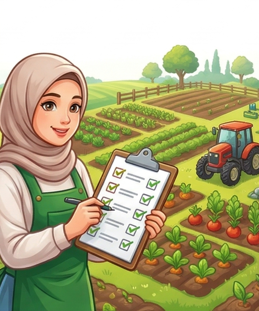
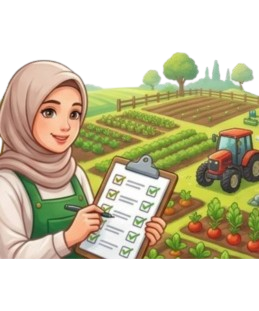
Refactor code structure for improved readability and maintainability

diff --git a/styles.css b/styles.css
@@ -42,15 +42,7 @@ html, body {
   z-index: 0;
 }
 
-/* Gradient fallback */
-.bg-fallback {
-  position: absolute; inset: 0;
-  background: linear-gradient(150deg,
-    #b8e0a0 0%, #78c878 18%,
-    #3daa50 42%, #2a7a3a 68%,
-    #1b5e2f 100%);
-  z-index: 0;
-}
+
 
 /* Readability overlay */
 .bg-overlay {
@@ -222,22 +214,8 @@ nav {
 .hero-subtitle {
   font-size: 0.86rem; font-weight: 500;
   color: var(--green-mid);
-  text-shadow: 0 1px 6px rgba(0,0,0,0.6);  margin-bottom: 18px;
+  text-shadow: 0 1px 6px rgba(0,0,0,0.6);  margin-bottom: 0;
 }
-
-.hero-btn {
-  display: inline-block;
-  background: var(--green-btn);
-  color: var(--white);
-  font-family: 'Nunito', sans-serif;
-  font-weight: 800; font-size: 0.95rem;
-  padding: 10px 28px; border-radius: 50px;
-  text-decoration: none;
-  border: 2px solid rgba(255,255,255,0.28);
-  box-shadow: 0 4px 18px rgba(30,100,40,0.45);
-  transition: background 0.2s, transform 0.15s;
-}
-.hero-btn:hover { background: #1b5e2f; transform: translateY(-2px); }
 
 /* ══════════════════════════
    BOTTOM CARDS
@@ -259,46 +237,6 @@ nav {
   gap: 40px;
   flex-wrap: wrap;
   justify-content: center;
-}
-
-.feat-card {
-  background: var(--card-bg);
-  border-radius: 20px;
-  padding: 10px 12px 6px;
-  text-align: center;
-  box-shadow: var(--shadow);
-  border: 1.5px solid rgba(255,255,255,0.85);
-  backdrop-filter: blur(10px);
-  display: flex; flex-direction: column;
-  align-items: center; gap: 10px;
-  height: 170px;
-  width: 170px;
-  transition: transform 0.25s, box-shadow 0.25s;
-}
-.feat-card:hover {
-  transform: translateY(-1px);
-  box-shadow: 0 0 12px rgba(46, 125, 50, 0.3);
-  cursor: pointer;
-}
-
-.feat-card-icon {
-  width: 120px; height: 120px;
-  background: linear-gradient(135deg, #e8f5e9 0%, #c8e6c9 100%);
-  border-radius: 14px;
-  border: none;
-  display: flex; flex-direction: column;
-  align-items: center; justify-content: center;
-  font-size: 0.56rem; font-weight: 800;
-  color: var(--green-mid); text-align: center; line-height: 1.3;
-  overflow: hidden;
-}
-.feat-card-icon img { width: 100%; height: 100%; object-fit: cover; border-radius: 12px; }
-.feat-card-icon .icon-ph { font-size: 1.5rem; margin-bottom: 2px; }
-
-.feat-card-label {
-  font-family: 'Fredoka One', cursive;
-  font-size: 0.98rem; font-weight: 800;
-  color: var(--text-dark);
 }
 
 /* ══════════════════════════════════════════════
@@ -386,11 +324,6 @@ nav {
   0 0 15px rgba(255, 255, 255, 0.8); /* Inner white glow */
 }
 
-.lp-card-label:hover  {
-  transform: translateY(-5px) scale(1.02);
-  box-shadow: 0 20px 50px rgba(0, 0, 0, 0.6);
-}
-
 /* Card image / illustration placeholder */
 .lp-card-img, .lp-card-img-3 {
   position: relative;
@@ -413,7 +346,7 @@ nav {
 .lp-card-img img {
   position: relative;
   top: -15px;
-  width: 100%;
+  width: 90%;
   height: 100%;
   object-fit: contain;
   filter: drop-shadow(0 0 6px rgba(0, 0, 0, 0.65));
@@ -421,15 +354,13 @@ nav {
 
 .lp-card-img-3 img {
   position: relative;
-  top: 0;
-  width: 100%;
+  top: -5px;
+  width: 90%;
   height: 100%;
   object-fit: contain;
   filter: drop-shadow(0 0 6px rgba(0, 0, 0, 0.65));
 }
 
-.lp-card-img .lp-ph-icon { font-size: 3rem; }
-.lp-card-img .lp-ph-text { font-size: 0.62rem; opacity: 0.8; }
 
 /* Green label bar at bottom */
 .lp-card-label {
@@ -446,6 +377,11 @@ nav {
   line-height: 1.2;
   position: relative;
   bottom: 10px;
+  transition: transform 0.25s, box-shadow 0.25s;
+}
+.lp-card-label:hover  {
+  transform: translateY(-5px) scale(1.02);
+  box-shadow: 0 20px 50px rgba(0, 0, 0, 0.6);
 }
 
 /* ══════════════════════════
@@ -462,9 +398,6 @@ nav {
   
   .cards-bar { padding: 0 14px 45px; }
   .cards-row { gap: 18px; }
-  .feat-card { width: 110px; height: 130px; padding: 9px 8px; }
-  .feat-card-icon { width: 75px; height: 75px; }
-  .feat-card-label { font-size: 0.7rem; }
   
   .lp-title-pill { font-size: 1.2rem; padding: 11px 36px; }
   .lp-cards-area { padding: 28px 22px 75px; gap: 20px; }
@@ -484,14 +417,10 @@ nav {
   
   .hero-text { max-width: 100%; width: min(92%, 600px); top: 80px; }
   .hero-title { font-size: 2.8rem; }
-  .hero-subtitle { font-size: 0.95rem; margin-bottom: 14px; }
-  .hero-btn { padding: 9px 24px; }
+  .hero-subtitle { font-size: 0.95rem; margin-bottom: 0; }
   
   .cards-bar { padding: 0 16px 50px; position: fixed; width: 100%; bottom: 0; }
   .cards-row { gap: 20px; flex-wrap: wrap; }
-  .feat-card { width: 28vw; min-width: 100px; height: 120px; padding: 10px 8px; }
-  .feat-card-icon { width: 80px; height: 80px; }
-  .feat-card-label { font-size: 0.75rem; font-weight: 700; }
   
   /* Latihan Pengukuhan */
   .lp-title-pill { font-size: 1.3rem; padding: 12px 40px; }
@@ -510,6 +439,21 @@ nav {
 
   .hero-text {
     z-index: 5;
+    top: 55px;
+    width: min(90%, 380px);
+  }
+
+  .hero-welcome {
+    font-size: 1rem;
+  }
+
+  .hero-title {
+    font-size: 2.7rem;
+  }
+
+  .hero-subtitle {
+    font-size: 0.88rem;
+    margin-bottom: 0;
   }
 
   .hero-text::before {
@@ -533,23 +477,6 @@ nav {
   .cards-row { 
     gap: 12px; 
     justify-content: center;
-  }
-  .feat-card { 
-    width: 80px; 
-    height: 100px; 
-    padding: 6px 8px 2px; 
-    gap: 5px;
-    border-radius: 12px;
-  }
-  .feat-card-icon { 
-    width: 60px; 
-    height: 60px;
-    border-radius: 10px;
-  }
-  .feat-card-label { 
-    font-size: 0.6rem; 
-    font-weight: 600;
-    padding: 3px 4px;
   }
   
   /* Latihan Pengukuhan page - most important improvements */
@@ -605,7 +532,4 @@ nav {
   
   .lp-card { width: 115px; height: 170px; }
   .lp-card-label { font-size: 0.65rem; }
-  .feat-card { width: 70px; height: 90px; }
-  .feat-card-icon { width: 50px; height: 50px; }
-  .feat-card-label { font-size: 0.55rem; }
 }

diff --git a/index.html b/index.html
@@ -56,7 +56,6 @@
           <span class="t-agri">+Agri</span><span class="t-revise">Revise</span>
         </h1>
         <p class="hero-subtitle">Mari Kita Ulang Kaji Bab Sains Tanah</p>
-        <a href="#" class="hero-btn">Jelajahi Sekarang</a>
       </div>
 
     </div>
@@ -65,44 +64,35 @@
     <div class="cards-bar">
       <div class="cards-row">
 
-        <!-- Card 1 -->
-        <a href="manual-penggunaan.html">
-          <div class="feat-card">
-          <!--
-            icon for first card: <img src="manual-penggunaan.png" alt="Manual Penggunaan" />
-          -->
-          <div class="feat-card-icon">
-            <img src="images/icon-manual-penggunaan-depan.png" alt="Manual Penggunaan" />
-          </div>
-          <div class="feat-card-label">Manual Penggunaan</div>
-        </div>
-        </a>
 
-        <!-- Card 2 -->
-        <a href="latihan-pengukuhan.html">
-          <div class="feat-card">
-          <!--
-            icon for second card: <img src="latihan-pengukuhan.png" alt="Latihan Pengukuhan" />
-          -->
-          <div class="feat-card-icon">
-            <img src="images/icon-latihan-pengukuhan-depan.png" alt="Latihan Pengukuhan" />
-          </div>
-          <div class="feat-card-label">Latihan Pengukuhan</div>
+      <!-- Card 1 -->
+      <a href="#" class="lp-card">
+        <div class="lp-card-img">
+            <img src="images/icon-manual-penggunaan-depan.png" alt="Manual Penggunaan"/>
+        
+            <div class="lp-card-label">Manual Penggunaan</div>
         </div>
-        </a>
+      </a>
 
-        <!-- Card 3 -->
-        <a href="papan-prestasi.html">
-          <div class="feat-card">
-            <!--
-              icon for third card: <img src="papan-prestasi.png" alt="Papan Prestasi" />
-            -->
-            <div class="feat-card-icon">
-              <img src="images/icon-leaderboard-depan.png" alt="Papan Prestasi" />
-            </div>
-            <div class="feat-card-label">Papan Prestasi</div>
-          </div>
-        </a>
+      <!-- Card 2 -->
+
+      <a href="latihan-pengukuhan.html" class="lp-card">
+        <div class="lp-card-img">
+            <img src="images/icon-latihan-pengukuhan-depan.png" alt="Latihan Pengukuhan"/>
+        
+            <div class="lp-card-label">Latihan Pengukuhan</div>
+        </div>
+      </a>
+
+      <!-- Card 3 -->
+
+      <a href="papan-prestasi.html" class="lp-card">
+        <div class="lp-card-img">
+            <img src="images/icon-leaderboard-depan.png" alt="Papan Prestasi"/>
+        
+            <div class="lp-card-label">Papan Prestasi</div>
+        </div>
+      </a>
 
       </div>
     </div>

diff --git a/latihan-pengukuhan.html b/latihan-pengukuhan.html
@@ -22,7 +22,7 @@
 
         <img src="images/agrirevise-logo.png" alt="AgriRevise" class="nav-logo-img" />
         <span class="nav-logo-text">
-          <span class="logo-agri">Agri</span><span class="logo-revise">Revise</span>
+          <span class="logo-agri">+Agri</span><span class="logo-revise">Revise</span>
         </span>
       </a>
 
@@ -79,7 +79,7 @@
       </a>
 
       <!-- Card 3 — Baja dan Pembajaan -->
-      <a href="#" class="lp-card">
+      <a href="baja-dan-pembajaan.html" class="lp-card">
             <div class="lp-card-img-3">
                 <img src="images/icon-baja-pembajaan-dalam-latihan-pengukuhan.png" alt="Baja dan Pembajaan"/>
             

diff --git a/pemuliharaan-tanah.html b/pemuliharaan-tanah.html
@@ -22,7 +22,7 @@
 
         <img src="images/agrirevise-logo.png" alt="AgriRevise" class="nav-logo-img" />
         <span class="nav-logo-text">
-          <span class="logo-agri">Agri</span><span class="logo-revise">Revise</span>
+          <span class="logo-agri">+Agri</span><span class="logo-revise">Revise</span>
         </span>
       </a>
 